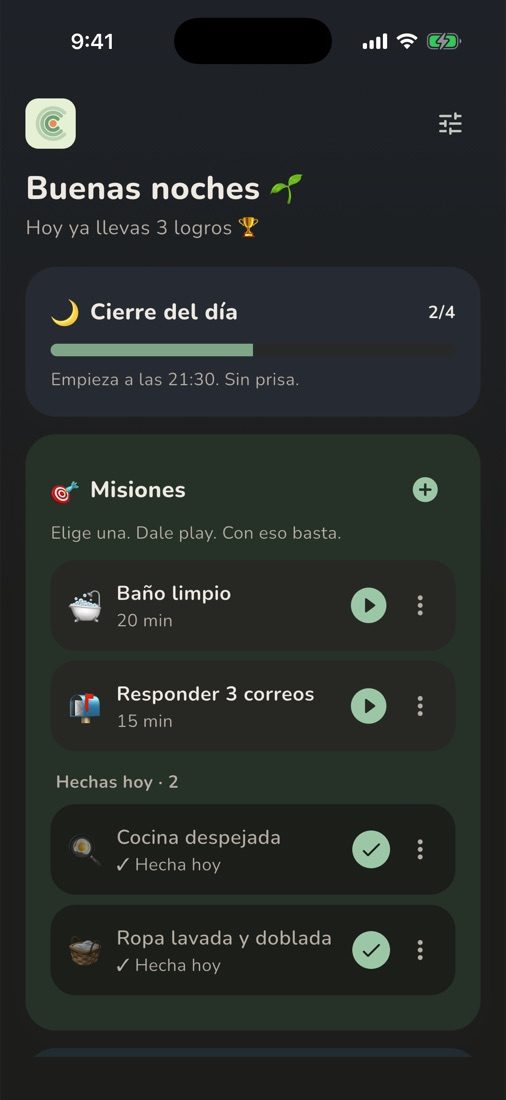
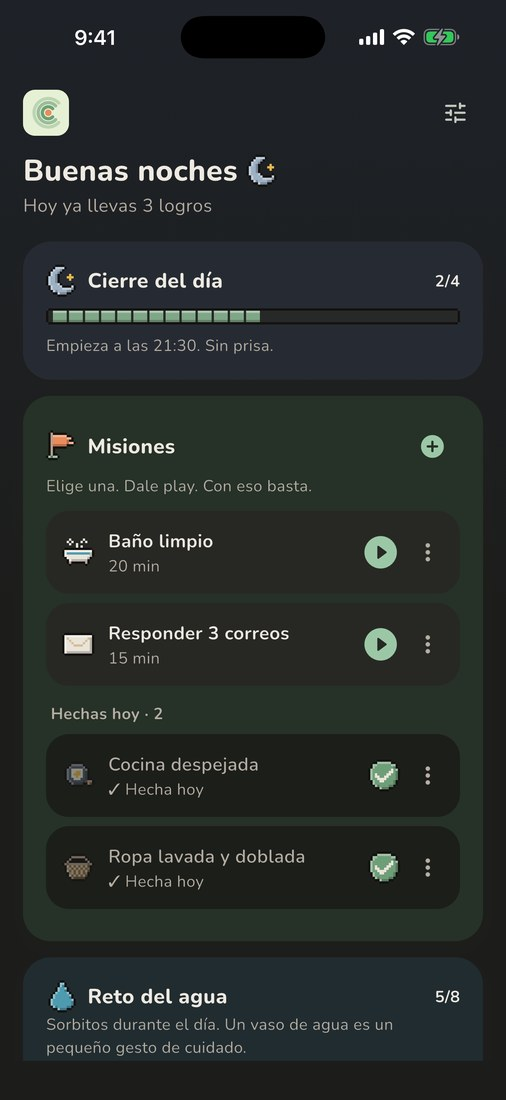
CoveWithin: sin prueba gratis y nuevas capturas pixel art

diff --git a/covewithin/privacy.html b/covewithin/privacy.html
@@ -36,7 +36,7 @@
     <p>Los recordatorios se programan dentro de tu iPhone (no se envían desde internet). El widget y el temporizador de la pantalla bloqueada muestran información que la app guarda en tu propio dispositivo.</p>
 
     <h2>Compras</h2>
-    <p>Las compras de CoveWithin Plus y la prueba gratis se hacen a través de la App Store. Apple procesa el pago; nosotros no recibimos tu nombre, correo ni datos de pago. La app solo sabe si Plus está activo en tu dispositivo.</p>
+    <p>La compra de CoveWithin Plus se hace a través de la App Store. Apple procesa el pago; nosotros no recibimos tu nombre, correo ni datos de pago. La app solo sabe si Plus está activo en tu dispositivo.</p>
 
     <h2>Borrar tus datos</h2>
     <p>Como todo está en tu iPhone, puedes borrar tu información en cualquier momento eliminando la app.</p>
@@ -69,7 +69,7 @@
     <p>Reminders are scheduled on your iPhone (they are not sent over the internet). The widget and the Lock Screen timer show information the app stores on your own device.</p>
 
     <h2>Purchases</h2>
-    <p>CoveWithin Plus and the free trial are purchased through the App Store. Apple processes the payment; we never receive your name, email or payment details. The app only knows whether Plus is active on your device.</p>
+    <p>CoveWithin Plus is purchased through the App Store. Apple processes the payment; we never receive your name, email or payment details. The app only knows whether Plus is active on your device.</p>
 
     <h2>Deleting your data</h2>
     <p>Since everything lives on your iPhone, you can delete your information at any time by deleting the app.</p>

diff --git a/covewithin/support.html b/covewithin/support.html
@@ -28,8 +28,8 @@
   <p>Abre CoveWithin → Ajustes → tarjeta de Plus → «Restaurar compras», con el mismo Apple ID con el que compraste.</p>
   <h2>No veo el temporizador en la pantalla bloqueada</h2>
   <p>Revisa Ajustes del iPhone → CoveWithin → Actividades en vivo, y que estén activadas.</p>
-  <h2>¿La prueba gratis se cobra sola?</h2>
-  <p>No. Al terminar los 14 días, las funciones de Plus se bloquean si no compras Plus. Nunca se cobra nada automáticamente y lo que creaste se queda.</p>
+  <h2>¿Plus es una suscripción?</h2>
+  <p>No. Plus es un pago único. La app es gratis con hasta 3 misiones, 3 actividades y 4 pasos por ritual, y nunca se cobra nada automáticamente.</p>
   <h2>¿Dónde están mis datos?</h2>
   <p>Solo en tu iPhone. Si borras la app, se borran también.</p>
 </section>
@@ -41,8 +41,8 @@
   <p>Open CoveWithin → Settings → Plus card → “Restore purchases”, using the Apple ID you bought it with.</p>
   <h2>I don't see the timer on the Lock Screen</h2>
   <p>Check iPhone Settings → CoveWithin → Live Activities and make sure they're on.</p>
-  <h2>Will the free trial charge me?</h2>
-  <p>No. After 14 days, Plus features lock unless you buy Plus. You're never charged automatically, and everything you created stays.</p>
+  <h2>Is Plus a subscription?</h2>
+  <p>No. Plus is a one-time purchase. The app is free with up to 3 quests, 3 activities and 4 steps per ritual, and you're never charged automatically.</p>
   <h2>Where is my data?</h2>
   <p>Only on your iPhone. Deleting the app deletes it too.</p>
 </section>
